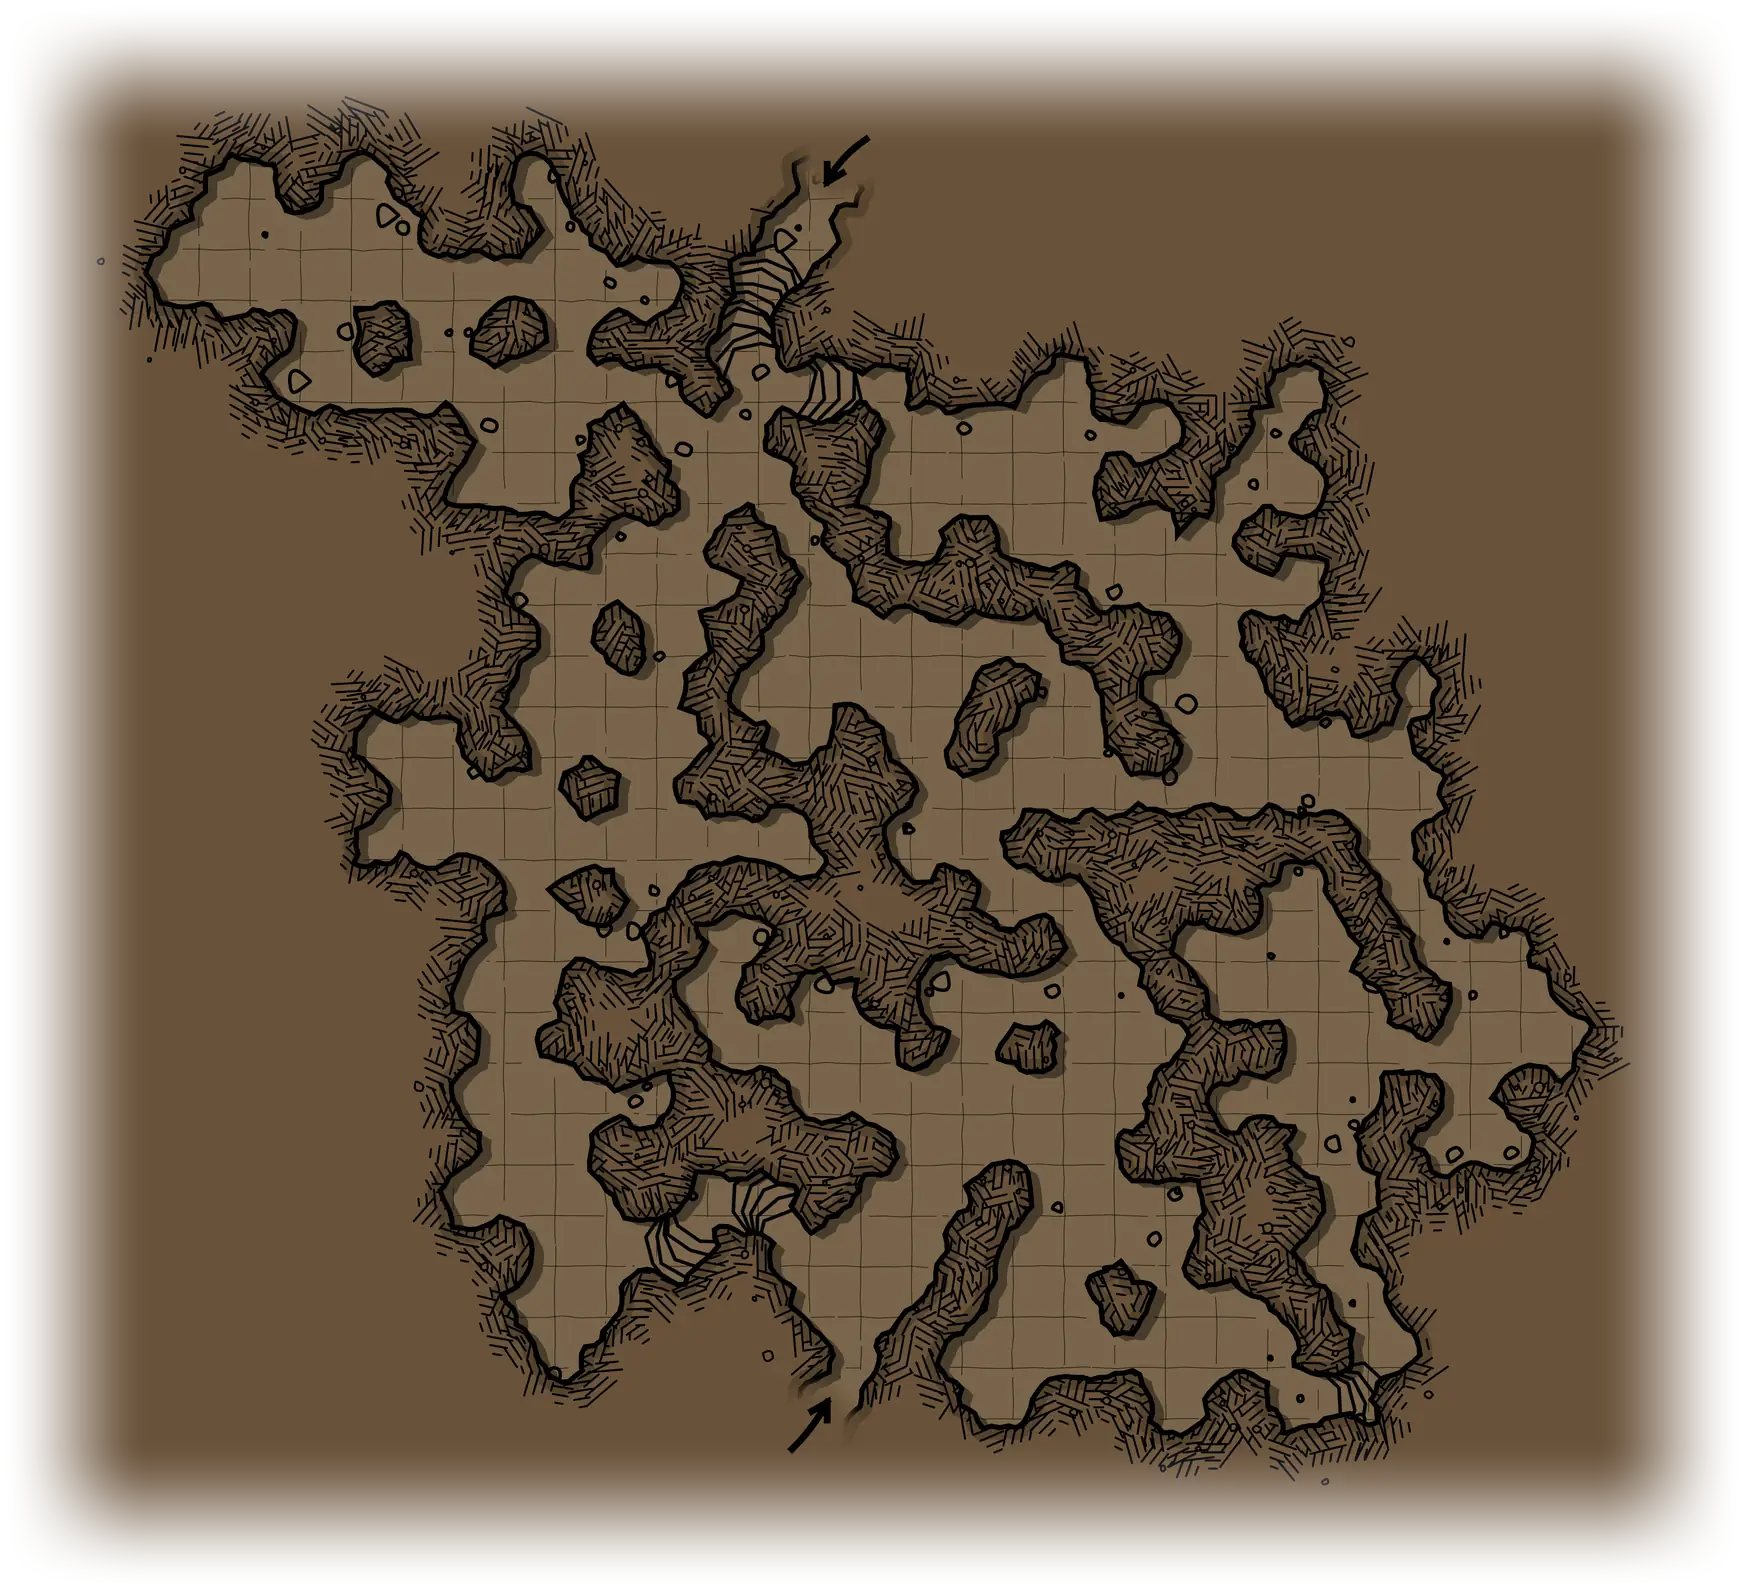
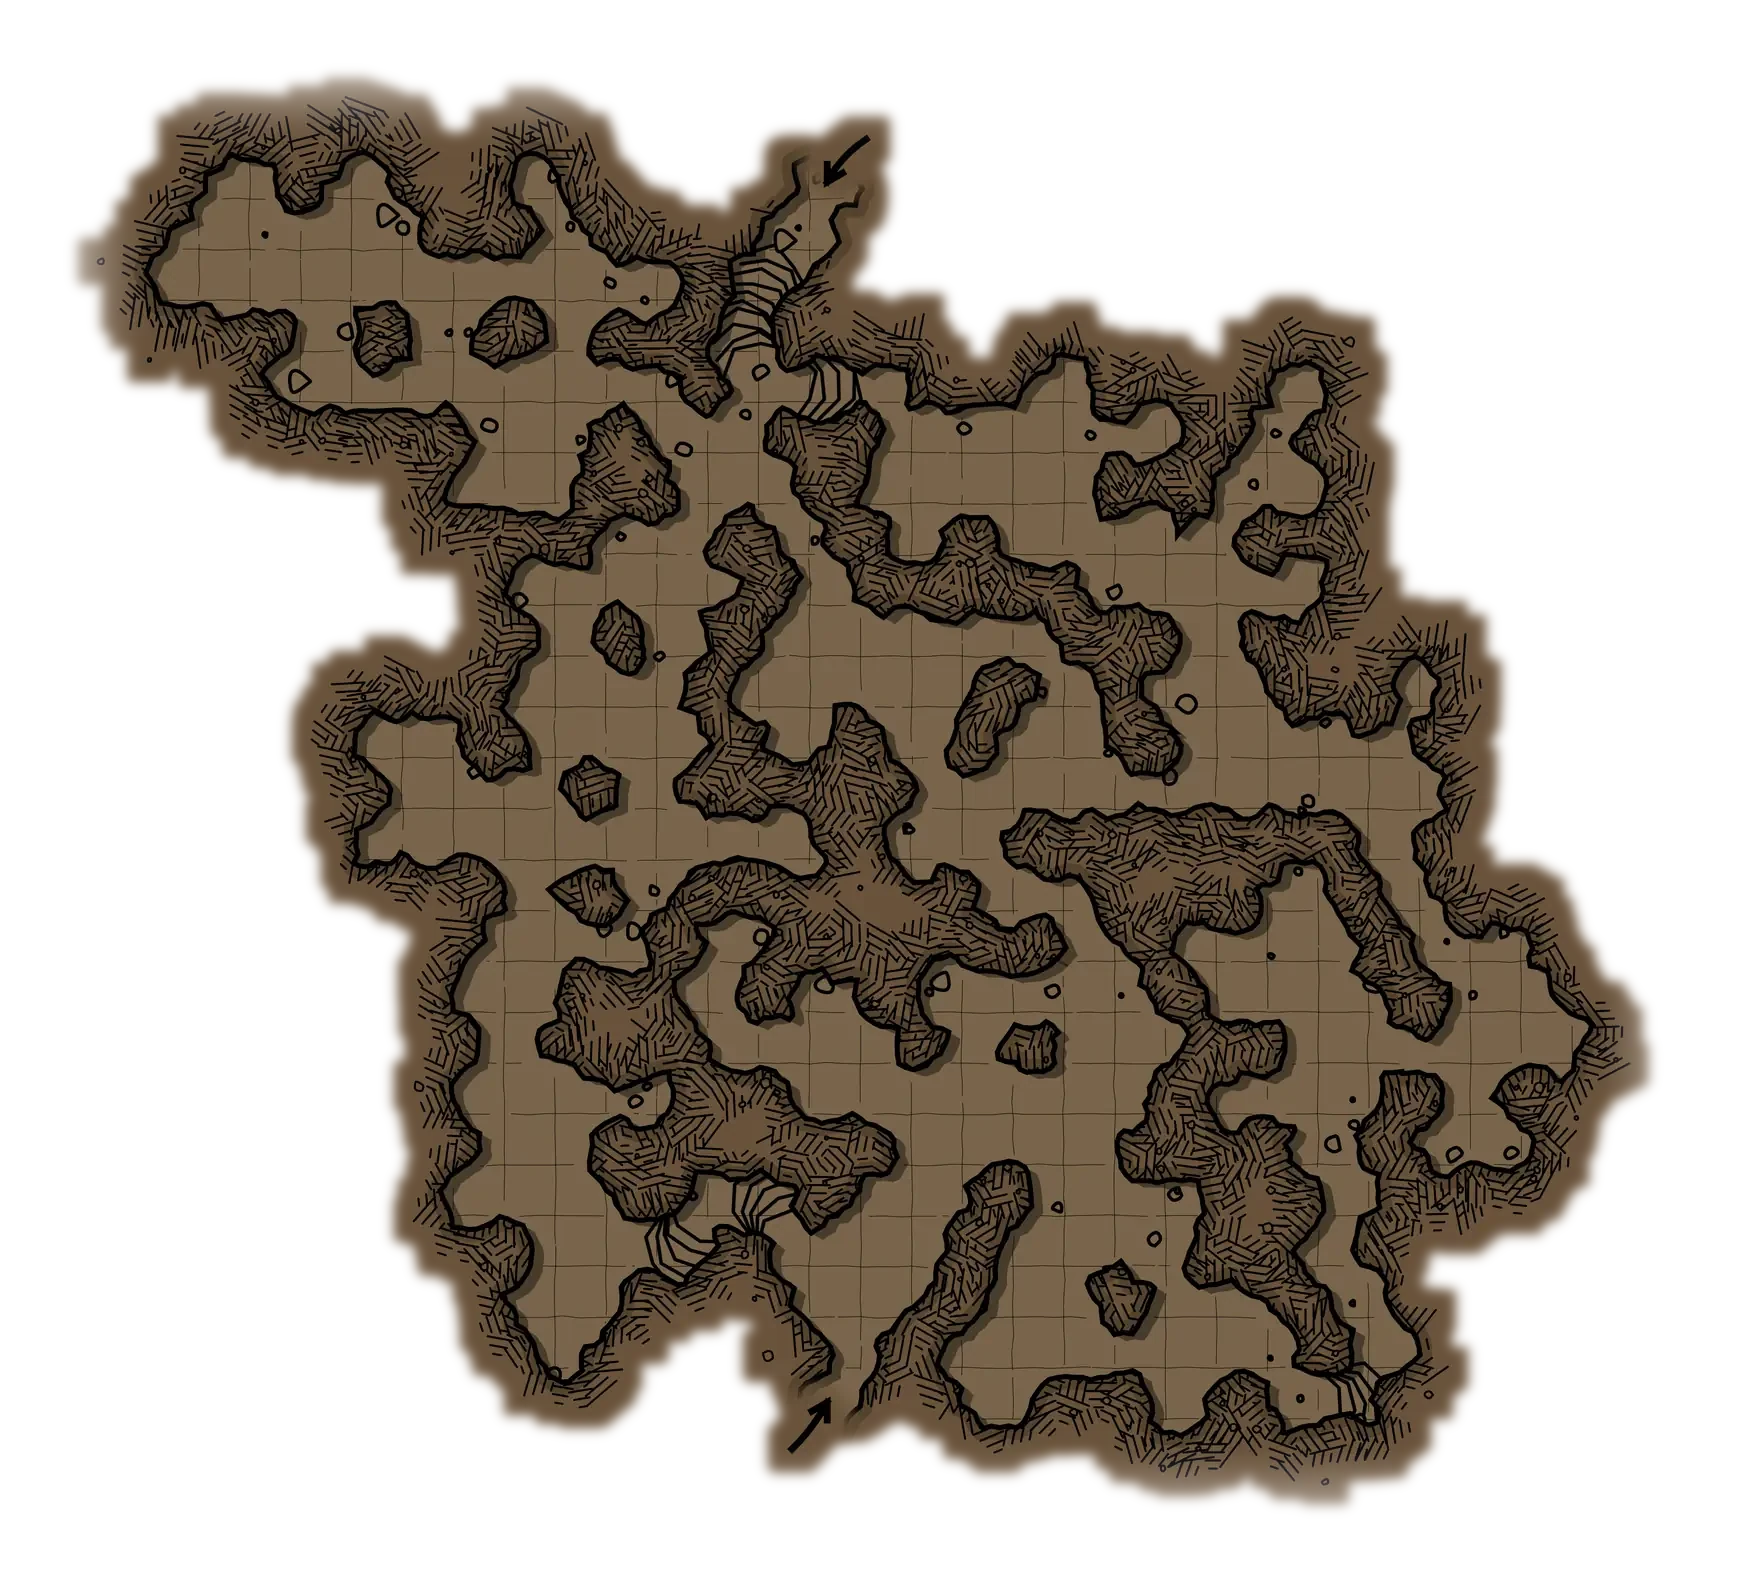
fix maps2

diff --git a/assets/css/styles.css b/assets/css/styles.css
@@ -98,10 +98,6 @@ body {
   overflow: hidden;
   z-index: 0;
   pointer-events: none;
-  /* Scopes the maps' mix-blend-mode (below) to blending with each other -
-     without this, they'd multiply straight into the near-black page
-     background behind the whole stack and go nearly invisible. */
-  isolation: isolate;
 }
 
 .cave-bg::after {
@@ -116,25 +112,18 @@ body {
   position: absolute;
   transform: translateX(-50%);
   max-width: none;
-  /* Each export's own baked-in edge feather only runs ~150-200px, far
-     short of the 500-900px the maps are stacked to overlap by - and each
-     export also has its own undrawn/blank canvas margin (the cave shape
-     never fills its full frame) that can run most of the image's height,
-     not just near an edge. With normal alpha blending, either one means
-     a fully-opaque "nothing here" patch from the top map completely
-     blocks whatever real linework the map underneath has in the same
-     spot. Multiply keeps that from being a hard occlusion: a light
-     blank patch darkens rather than replaces what's beneath, so the
-     layer underneath's linework still comes through instead of a flat
-     dead zone (scoped to just these layers by .cave-bg's `isolation`,
-     above - otherwise this would multiply straight into the near-black
-     page background instead of the map below it). */
-  mix-blend-mode: multiply;
-  /* A short crossfade at each image's own top/bottom edge on top of that,
-     so the seam where one map's height range starts/ends doesn't read as
-     an abrupt cut either. Kept well inside the smallest overlap between
-     any two stacked maps (~508px) so two adjacent fades never outrun the
-     zone they share. */
+  /* Each export's undrawn canvas margin (the hand-drawn cave shape never
+     fills its full frame) is now real transparency - see punch_alpha.py -
+     baked into the file itself via local-variance thresholding (blank
+     canvas reads as flat, zero local contrast; any real linework, grid,
+     or paper grain doesn't), instead of relying on blend tricks to hide a
+     fully opaque "nothing here" patch. That's what lets stacked maps
+     actually show each other through their overlap instead of whichever
+     is on top blocking the other. A short crossfade at each image's own
+     top/bottom edge on top of that, so the seam where one map's height
+     range starts/ends doesn't read as an abrupt cut either. Kept well
+     inside the smallest overlap between any two stacked maps (~508px) so
+     two adjacent fades never outrun the zone they share. */
   -webkit-mask-image: linear-gradient(
     to bottom,
     transparent 0,
